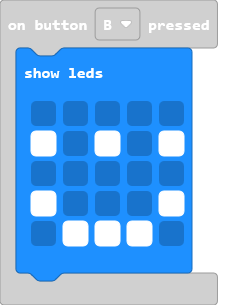
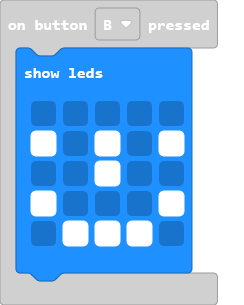
change the smiling face again

Changed region(s): [[0.373, 0.5016, 0.5164, 0.6197]]

diff --git a/main.ts b/main.ts
@@ -5,7 +5,7 @@ input.onButtonPressed(Button.B, function () {
     basic.showLeds(`
         . . . . .
         # . # . #
-        . . . . .
+        . . # . .
         # . . . #
         . # # # .
         `)
